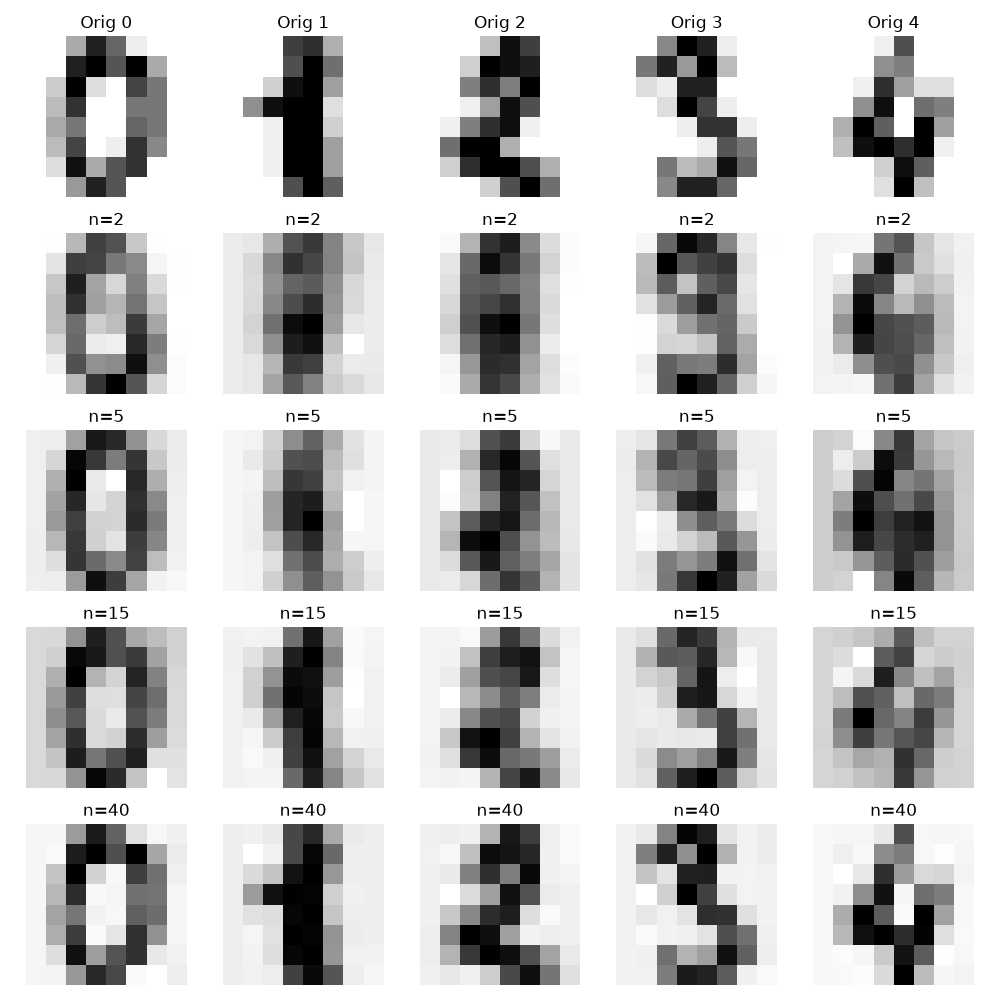
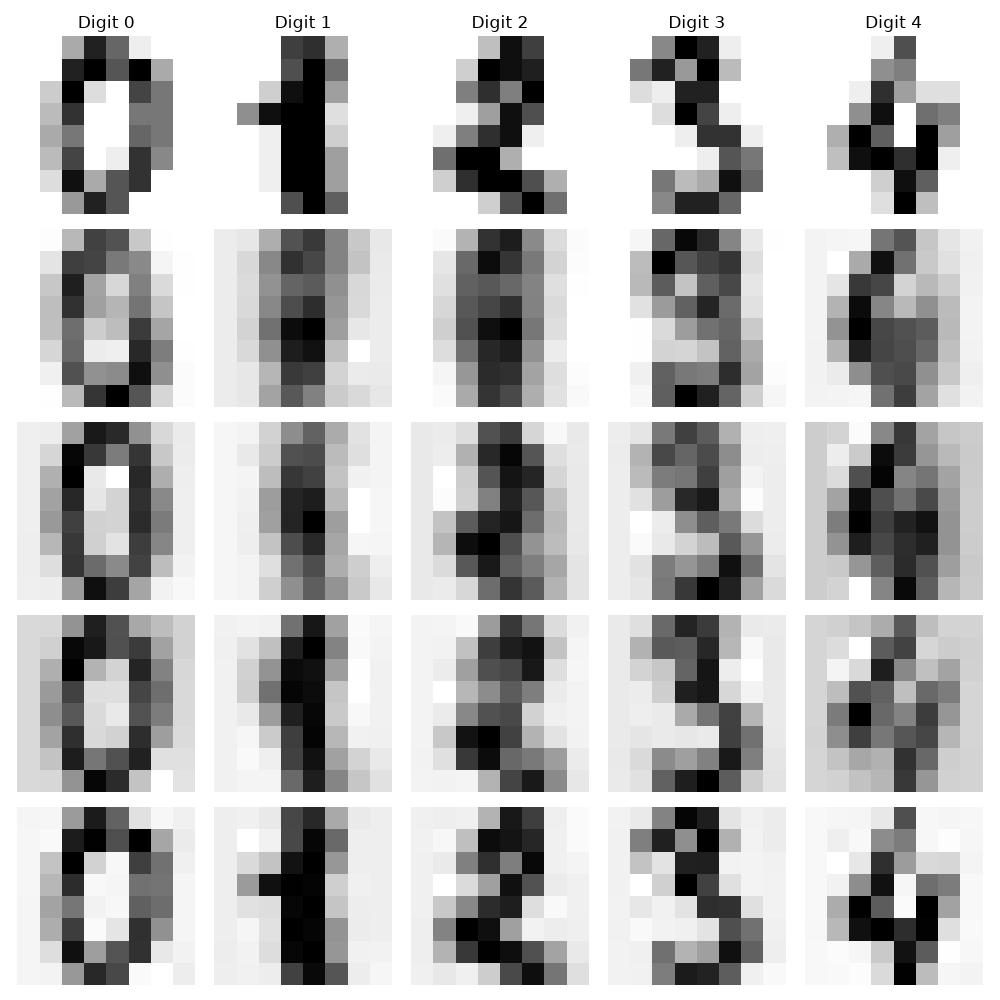
2d commit Assignment_03

Changed region(s): [[0.62, 0.0, 0.992, 0.992], [0.0, 0.0, 0.403, 0.992], [0.434, 0.0, 0.589, 0.992]]

diff --git a/assignments_03/warmup_03.py b/assignments_03/warmup_03.py
@@ -88,11 +88,20 @@ cv_scores = cross_val_score(knn, X_train, y_train, cv=5)
 
 
 #Print each fold score, the mean, and the standard deviation
-print(cv_scores)           # accuracy on each fold
-print(f"Mean: {cv_scores.mean():.3f}")
-print(f"Std:  {cv_scores.std():.3f}")
 
-#comment: this result is more trustworthy than one split because it tests multiple folds.
+# print(cv_scores)
+# print(f"Mean: {cv_scores.mean():.3f}")
+# print(f"Std: {cv_scores.std():.3f}")
+
+for i, score in enumerate(cv_scores, start=1):
+    print(f"Fold {i}: {score:.3f}")
+
+print(f"Mean: {cv_scores.mean():.3f}")
+print(f"Std : {cv_scores.std():.3f}")
+
+# Cross-validation is more trustworthy than one train/test split
+# because every sample is used for testing once.
+
 
 ##---------KNN Question 4------------------------------------------------
 print('---------KNN Question 4------------------------------------------------')
@@ -107,8 +116,7 @@ for k in k_values:
     #print k and the mean CV score
     print(f"k={k}, mean CV={cv_scores.mean():.4f}")
 
-# I will Choose k with highest mean score,
-#  because a higher score means the model correctly classifies more samples.
+# I would choose k=5 because it has the highest average cross-validation accuracy.
 
 #------Classifier Evaluation --------------------------------------------------------------
 #---------Classifier Evaluation Question 1------------------------------------------------
@@ -150,21 +158,6 @@ print(classification_report(y_test, tree_pred))
 #------Logistic Regression and Regularization-------------------------------------------
 #------Logistic Regression Question 1------------------------------------------------
 print('-----Logistic Regression Question 1------------------------------------------------')
-#Train three logistic regression models on the scaled Iris data, identical in every way except for the C 
-# parameter: C=0.01, C=1.0, and C=100
-# for c in [0.01, 1.0, 100]:
-#     log_reg = LogisticRegression(
-#         C=c,
-#         max_iter=1000,
-#         solver="lbfgs"
-#     )
-
-#     log_reg.fit(X_train_scaled, y_train)
-
-#     coef_size = np.abs(log_reg.coef_).sum()
-
-#     print(f"C={c}, Total coefficient size={coef_size:.4f}")
-
 
 for c in [0.01, 1.0, 100]:
     log_reg = LogisticRegression(
@@ -272,7 +265,9 @@ fig, axes = plt.subplots(len(n_list)+1, 5, figsize=(10,10))
 # Original row
 for col in range(5):
     axes[0, col].imshow(images[col], cmap="gray_r")
-    axes[0, col].set_title(f"Orig {col}")
+    #axes[0, col].set_title(f"Orig {col}")
+    axes[0, col].set_title(f"Digit {col}")
+    axes[0, 0].set_ylabel("Original", fontsize=12)
     axes[0, col].axis("off")
 
 # Reconstruction rows
@@ -280,7 +275,9 @@ for row, n in enumerate(n_list, start=1):
     for col in range(5):
         recon = reconstruct_digit(col, scores, pca, n)
         axes[row, col].imshow(recon, cmap="gray_r")
-        axes[row, col].set_title(f"n={n}")
+        #axes[row, col].set_title(f"n={n}")
+        if col == 0:
+            axes[row, col].set_ylabel(f"n={n}", fontsize=12)
         axes[row, col].axis("off")
 
 plt.tight_layout()

diff --git a/assignments_03/project_03.py b/assignments_03/project_03.py
@@ -178,7 +178,8 @@ plt.axhline(0.90, linestyle="--")
 plt.xlabel("Components")
 plt.ylabel("Cumulative Variance")
 plt.title("PCA Explained Variance")
-plt.savefig("outputs/pca_variance.png")
+plt.savefig("outputs/pca_explained_variance.png")
+
 plt.close()
 
 n = np.argmax(cum_var >= 0.90) + 1
@@ -186,6 +187,8 @@ print("Components for 90% variance:", n)
 
 X_train_pca = pca.transform(X_train_scaled)[:, :n]
 X_test_pca = pca.transform(X_test_scaled)[:, :n]
+
+# Scaling features and fitting PCA on training only  avoiding data leakage.
 
 #----------------------------------------------------------------------------------------
 
@@ -255,6 +258,8 @@ tree_pred = tree.predict(X_test)
 print("\nDecision Tree")
 print("Accuracy:", accuracy_score(y_test, tree_pred))
 print(classification_report(y_test, tree_pred))
+# As depth increases, the tree memorizes the training data (train ↑, test ↓), showing clear overfitting.
+# max_depth=5 provides the best balance between bias and variance, so I use it for production.
 
 # Random Forest
 rf = RandomForestClassifier(
@@ -437,12 +442,6 @@ print("\nNon Tree Pipeline")
 print(classification_report(y_test, pipe2_pred))
 
 # comments:
-# The two pipelines are different.
-
-# Tree Pipeline only has Random Forest because trees do not need scaling.
-
-# Non Tree Pipeline has scaler, PCA, and Logistic Regression
-# because this model needs scaled data.
-
-# Pipelines are useful because they keep all steps together,
-# reduce mistakes, and make deployment easier.
+# The tree pipeline uses only RandomForest because tree-based models do not require scaling or PCA.
+# The non-tree pipeline includes scaling and PCA because Logistic Regression depends on standardized inputs.
+# Pipelines bundle preprocessing + modeling into one object, preventing leakage and ensuring consistent steps during training and deployment.
